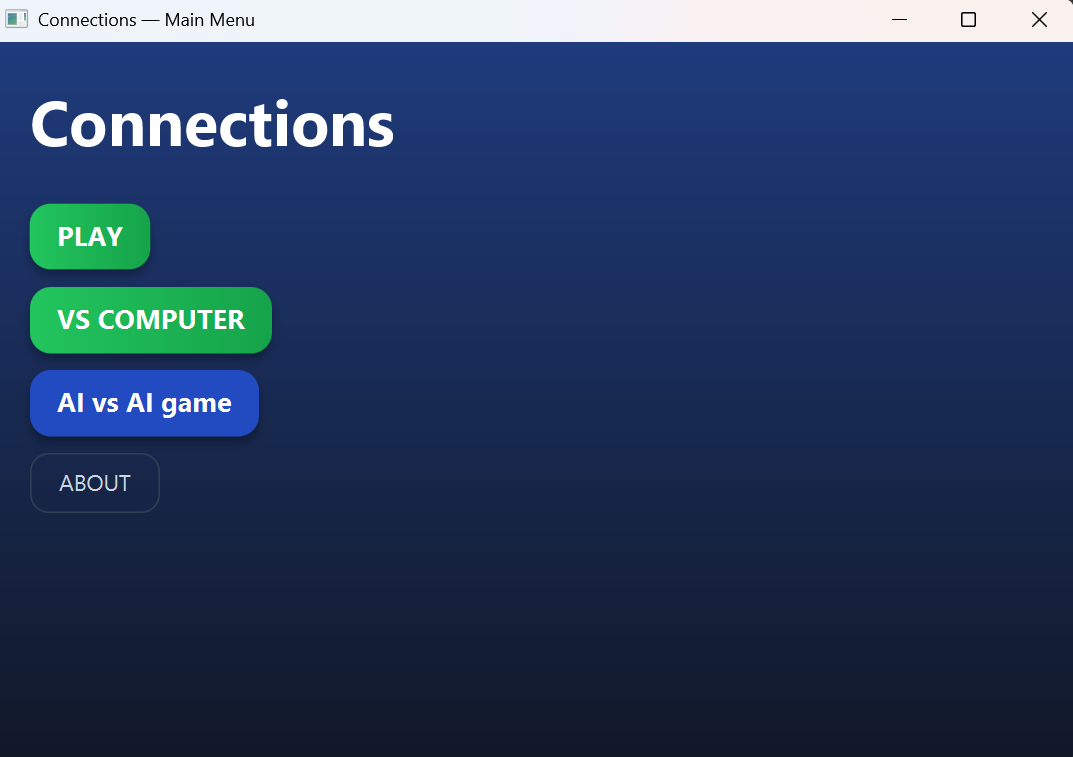
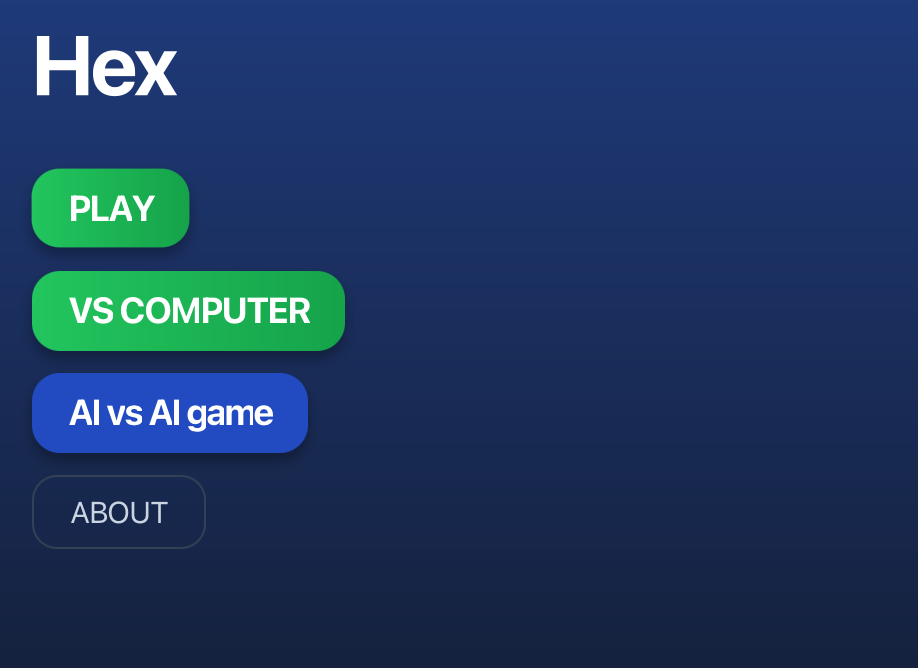
Changed name of main menu to Hex and updated the picture in the README file accordingly. Everything should be ready to submit now.

Changed region(s): [[0.0, 0.2395, 0.3965, 0.6886], [0.0, 0.0, 1.0, 0.2096], [0.061, 0.7485, 0.183, 0.8084]]

diff --git a/src/main/java/UI/screens/MenuScreenBuilder.java b/src/main/java/UI/screens/MenuScreenBuilder.java
@@ -32,7 +32,7 @@ public final class MenuScreenBuilder {
         root.setPadding(new Insets(24));
         root.setStyle("-fx-background-color: linear-gradient(to bottom, #1f3b7c, #111827);");
 
-        Text title = new Text("Connections");
+        Text title = new Text("Hex");
         title.setFill(javafx.scene.paint.Color.WHITE);
         title.setFont(Font.font("Inter", FontWeight.EXTRA_BOLD, 42));
 

diff --git a/src/main/java/UI/nav/NavigationService.java b/src/main/java/UI/nav/NavigationService.java
@@ -53,7 +53,7 @@ public final class NavigationService {
         Parent root = MenuScreenBuilder.build(this);
         Scene scene = new Scene(root, 720, 480);
         AppStyles.apply(scene);
-        stage.setTitle("Connections Main Menu");
+        stage.setTitle("Hex Main Menu");
         stage.setScene(scene);
     }
 
